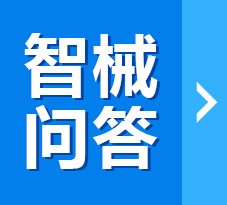
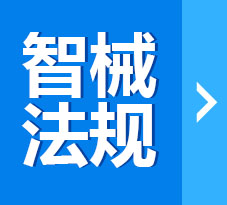
调整个别布局

diff --git a/search.html b/search.html
@@ -41,18 +41,15 @@
 		<div class="header_top">
 			<div class="container">
 				<div class="row" style="position: relative">
-					<div class="pull-left">
-						<a href="index.html" class="xcx">微信小程序</a>&nbsp;&nbsp;|&nbsp;
-						<a href="index.html">医疗器械分类目录</a>
-						<div style="position: absolute;z-index: 1000;left: -4%;display: none;" class="xcx_code">
-							<img src="image/weixin.jpg" style="width: 140px;height: 140px;">
-						</div>
-					</div>
-					<div class="pull-right">
-						<a href="http://www.yixiecha.cn/?fr=mulu-header" target="_blank">医械查</a>&nbsp;&nbsp;|&nbsp;
-						<a href="http://liexin.zhixie.info/?fr=mulu-header" target="_blank">智械猎新</a>&nbsp;&nbsp;|&nbsp;
-						<a href="http://wenda.zhixie.info" target="_blank">智械问答</a>
-					</div>
+                    <div class="pull-left top">
+                        <a href="index.html">首页</a>
+                        <a href="http://www.yixiecha.cn/?fr=mulu-header" target="_blank">医械查</a>
+                        <a href="http://wenda.zhixie.info/?fr=mulu-header" target="_blank">智械问答</a>
+                        <a href="http://fagui.zhixie.info/?fr=mulu-header" target="_blank">智械法规</a>
+                        <!--<div style="position: absolute;z-index: 1000;left: -4%;display: none;" class="xcx_code">
+                            <img src="image/weixin.jpg" style="width: 140px;height: 140px;">
+                        </div>-->
+                    </div>
 				</div>
 			</div>
 		</div>

diff --git a/index.html b/index.html
@@ -47,17 +47,14 @@
 		<div class="header_top">
 			<div class="container">
 				<div class="row" style="position: relative;">
-					<div class="pull-left">
-						<a href="index.html" class="xcx">微信小程序</a>&nbsp;&nbsp;|&nbsp;
-						<a href="index.html">医疗器械分类目录</a>
-						<div style="position: absolute;z-index: 1000;left: -4%;display: none;" class="xcx_code">
-							<img src="image/weixin.jpg" style="width: 140px;height: 140px;">
-						</div>
-					</div>
-					<div class="pull-right">
-						<a href="http://www.yixiecha.cn/?fr=mulu-header" target="_blank">医械查</a>&nbsp;&nbsp;|&nbsp;
-						<a href="http://liexin.zhixie.info/?fr=mulu-header" target="_blank">智械猎新</a>&nbsp;&nbsp;|&nbsp;
-						<a href="http://wenda.zhixie.info" target="_blank">智械问答</a>
+					<div class="pull-left top">
+                        <a href="index.html">首页</a>
+                        <a href="http://www.yixiecha.cn/?fr=mulu-header" target="_blank">医械查</a>
+                        <a href="http://wenda.zhixie.info/?fr=mulu-header" target="_blank">智械问答</a>
+                        <a href="http://fagui.zhixie.info/?fr=mulu-header" target="_blank">智械法规</a>
+                        <!--<div style="position: absolute;z-index: 1000;left: -4%;display: none;" class="xcx_code">
+                            <img src="image/weixin.jpg" style="width: 140px;height: 140px;">
+                        </div>-->
 					</div>
 				</div>
 			</div>

diff --git a/aboutus.html b/aboutus.html
@@ -35,14 +35,12 @@
 		<div class="header_top">
 			<div class="container">
 				<div class="row">
-					<div class="pull-left">
-						<a href="index.html">医疗器械分类目录</a>
-					</div>
-					<div class="pull-right">
-						<a href="http://www.yixiecha.cn/?fr=mulu-header" target="_blank">医械查</a>&nbsp;&nbsp;|&nbsp;
-						<a href="http://liexin.zhixie.info/?fr=mulu-header" target="_blank">智械猎新</a>&nbsp;&nbsp;|&nbsp;
-						<a href="http://wenda.zhixie.info" target="_blank">智械问答</a>
-					</div>
+                    <div class="pull-left top">
+                        <a href="index.html">首页</a>
+                        <a href="http://www.yixiecha.cn/?fr=mulu-header" target="_blank">医械查</a>
+                        <a href="http://wenda.zhixie.info/?fr=mulu-header" target="_blank">智械问答</a>
+                        <a href="http://fagui.zhixie.info/?fr=mulu-header" target="_blank">智械法规</a>
+                    </div>
 				</div>
 			</div>
 		</div>

diff --git a/css/common.css b/css/common.css
@@ -51,3 +51,4 @@ a{color: #fff;text-decoration: none;}
  .code_main img{width: 129px;height: 129px;}
  .modal-dialog{margin-top:200px;}
 .input-group .form-control,.btn {z-index: 0 !important;}
+.top a{margin-right: 40px}
